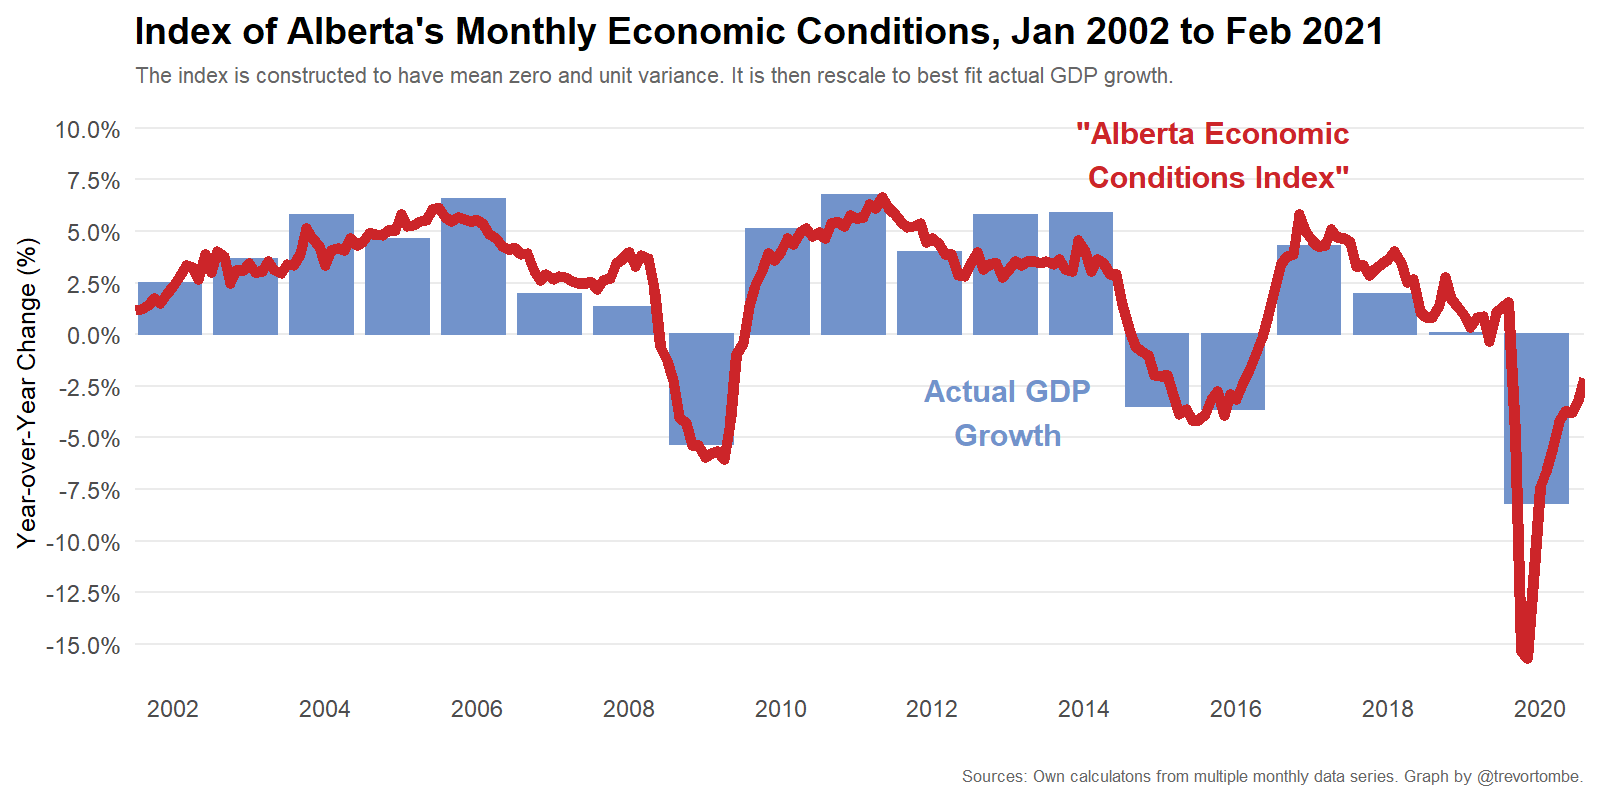
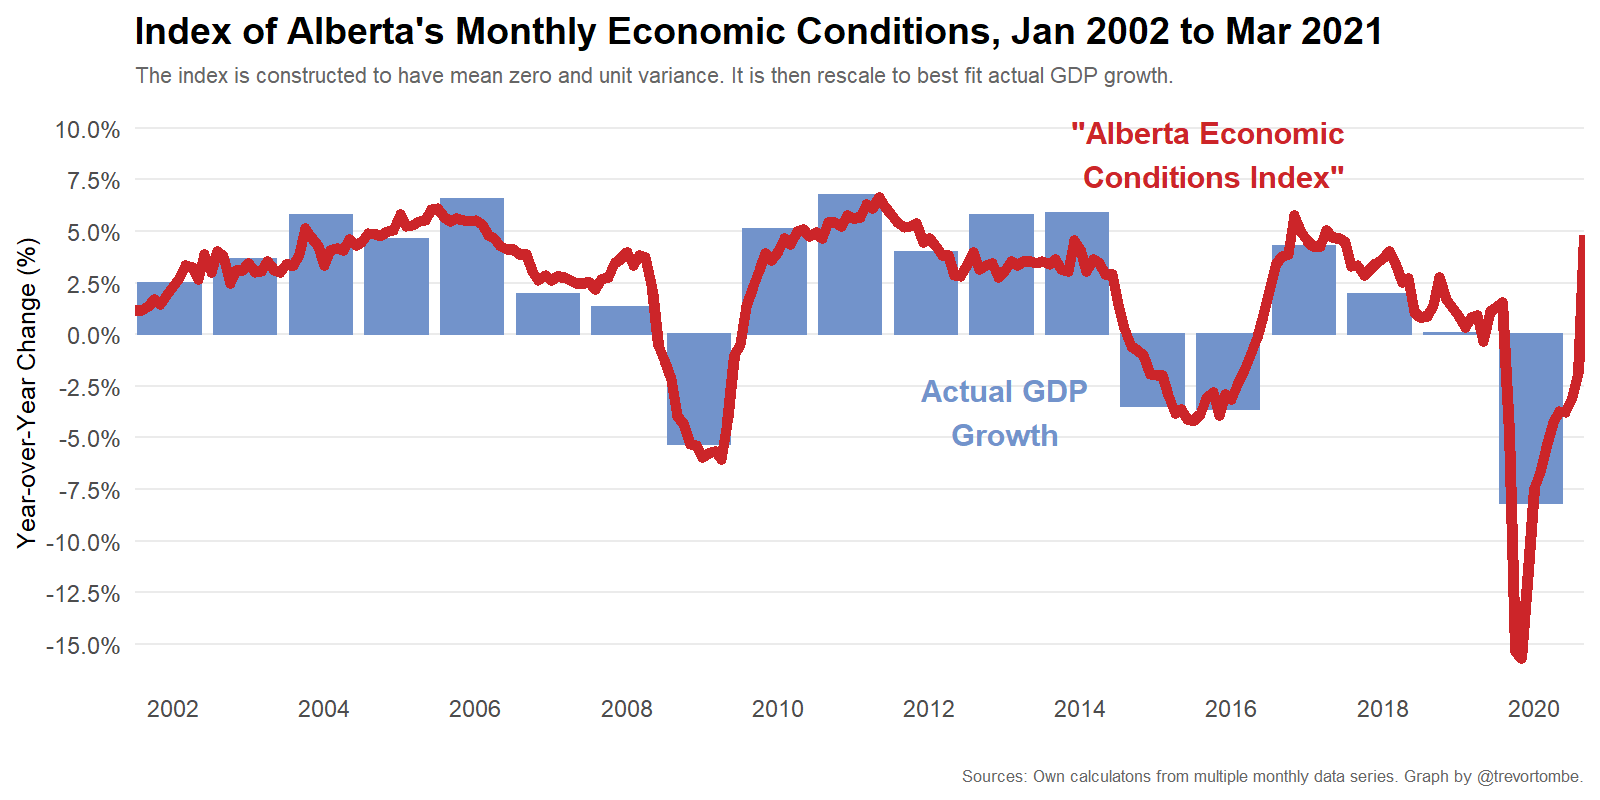
Update All Plots

diff --git a/README.md b/README.md
@@ -14,11 +14,11 @@ file is run, manual entry of data may be required (for example, wells
 drilled). Third, “ECI.R” estimates the first principle component from
 this data and generates the visualization.
 
-The latest ECI for Feb 2021 is -1.15. The full time series since Jan
-2002 is plotted below:
+The latest ECI for Mar 2021 is 0.75. The full time series since Jan 2002
+is plotted below:
 
 ![Alberta ECI](plot.png)
 
 ------------------------------------------------------------------------
 
-The index was last updated on 2021-05-03 16:00:34 MDT.
+The index was last updated on 2021-06-01 09:44:30 MDT.
